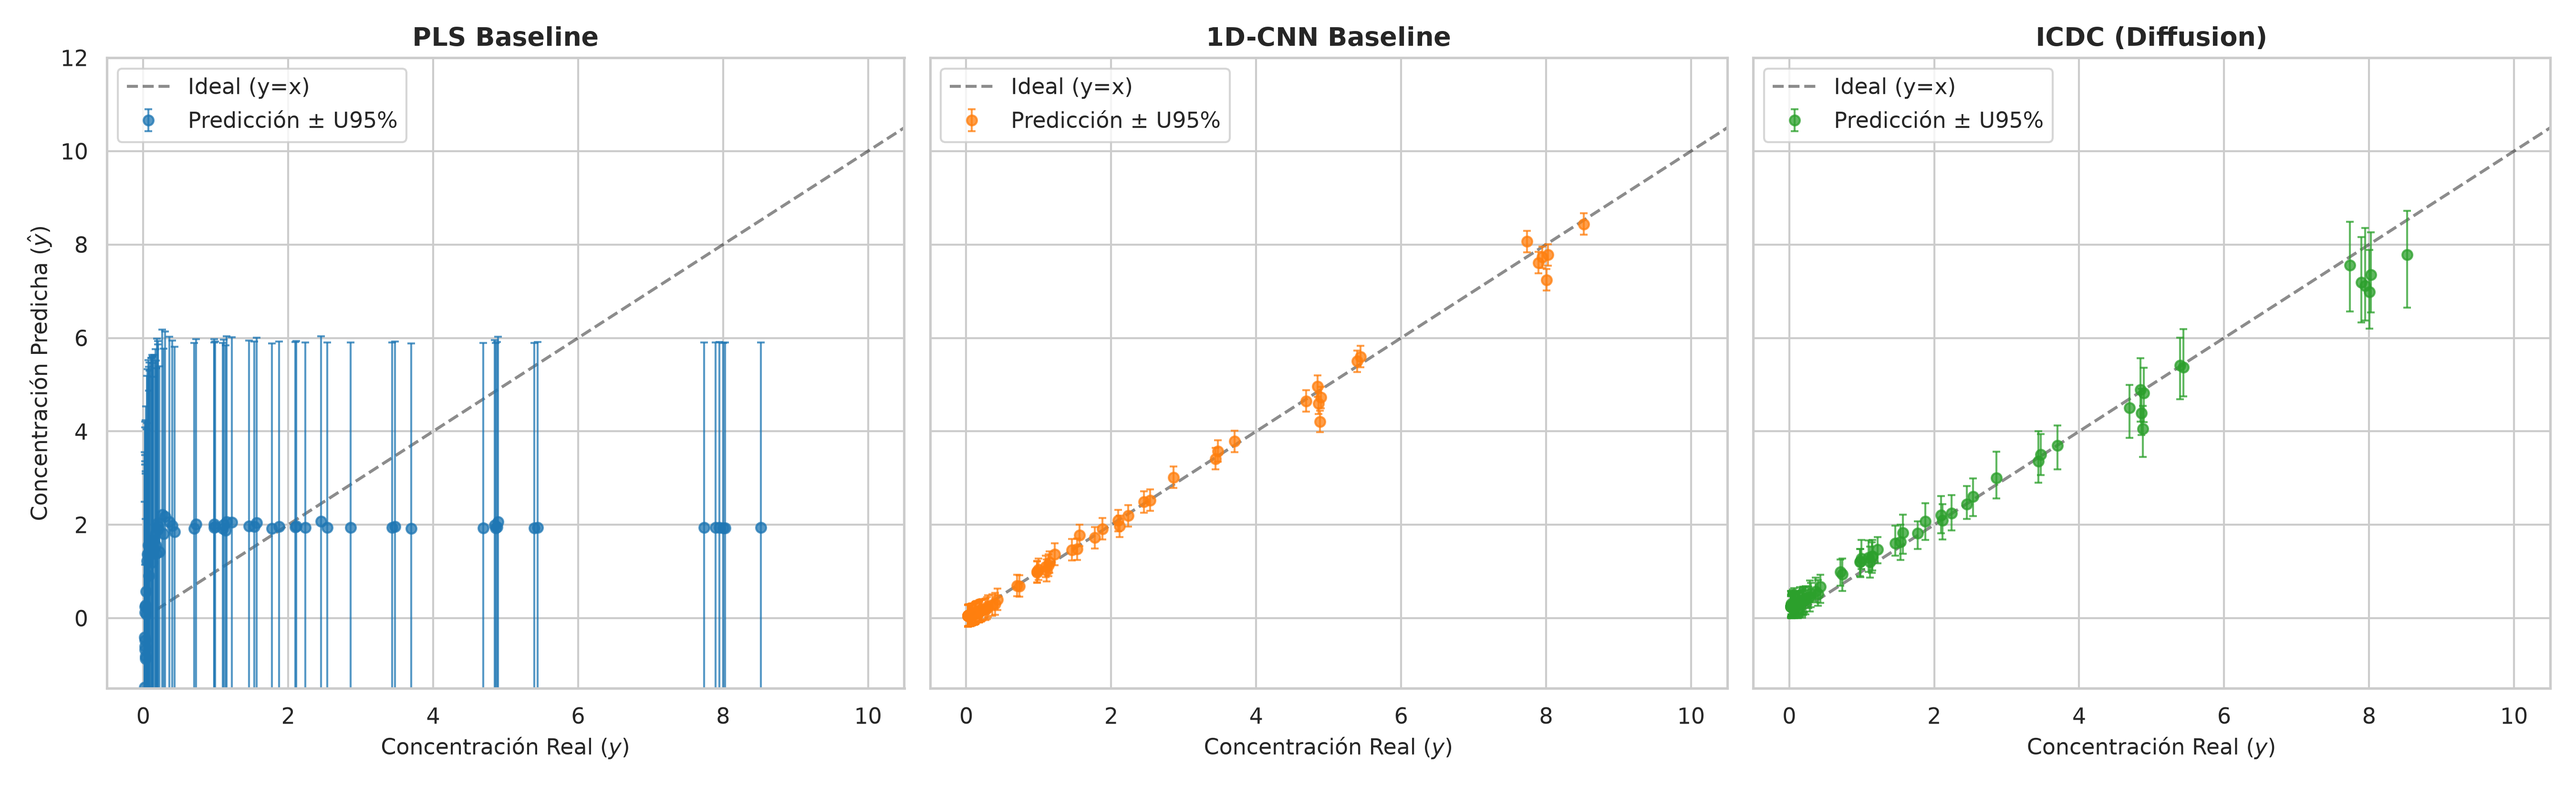
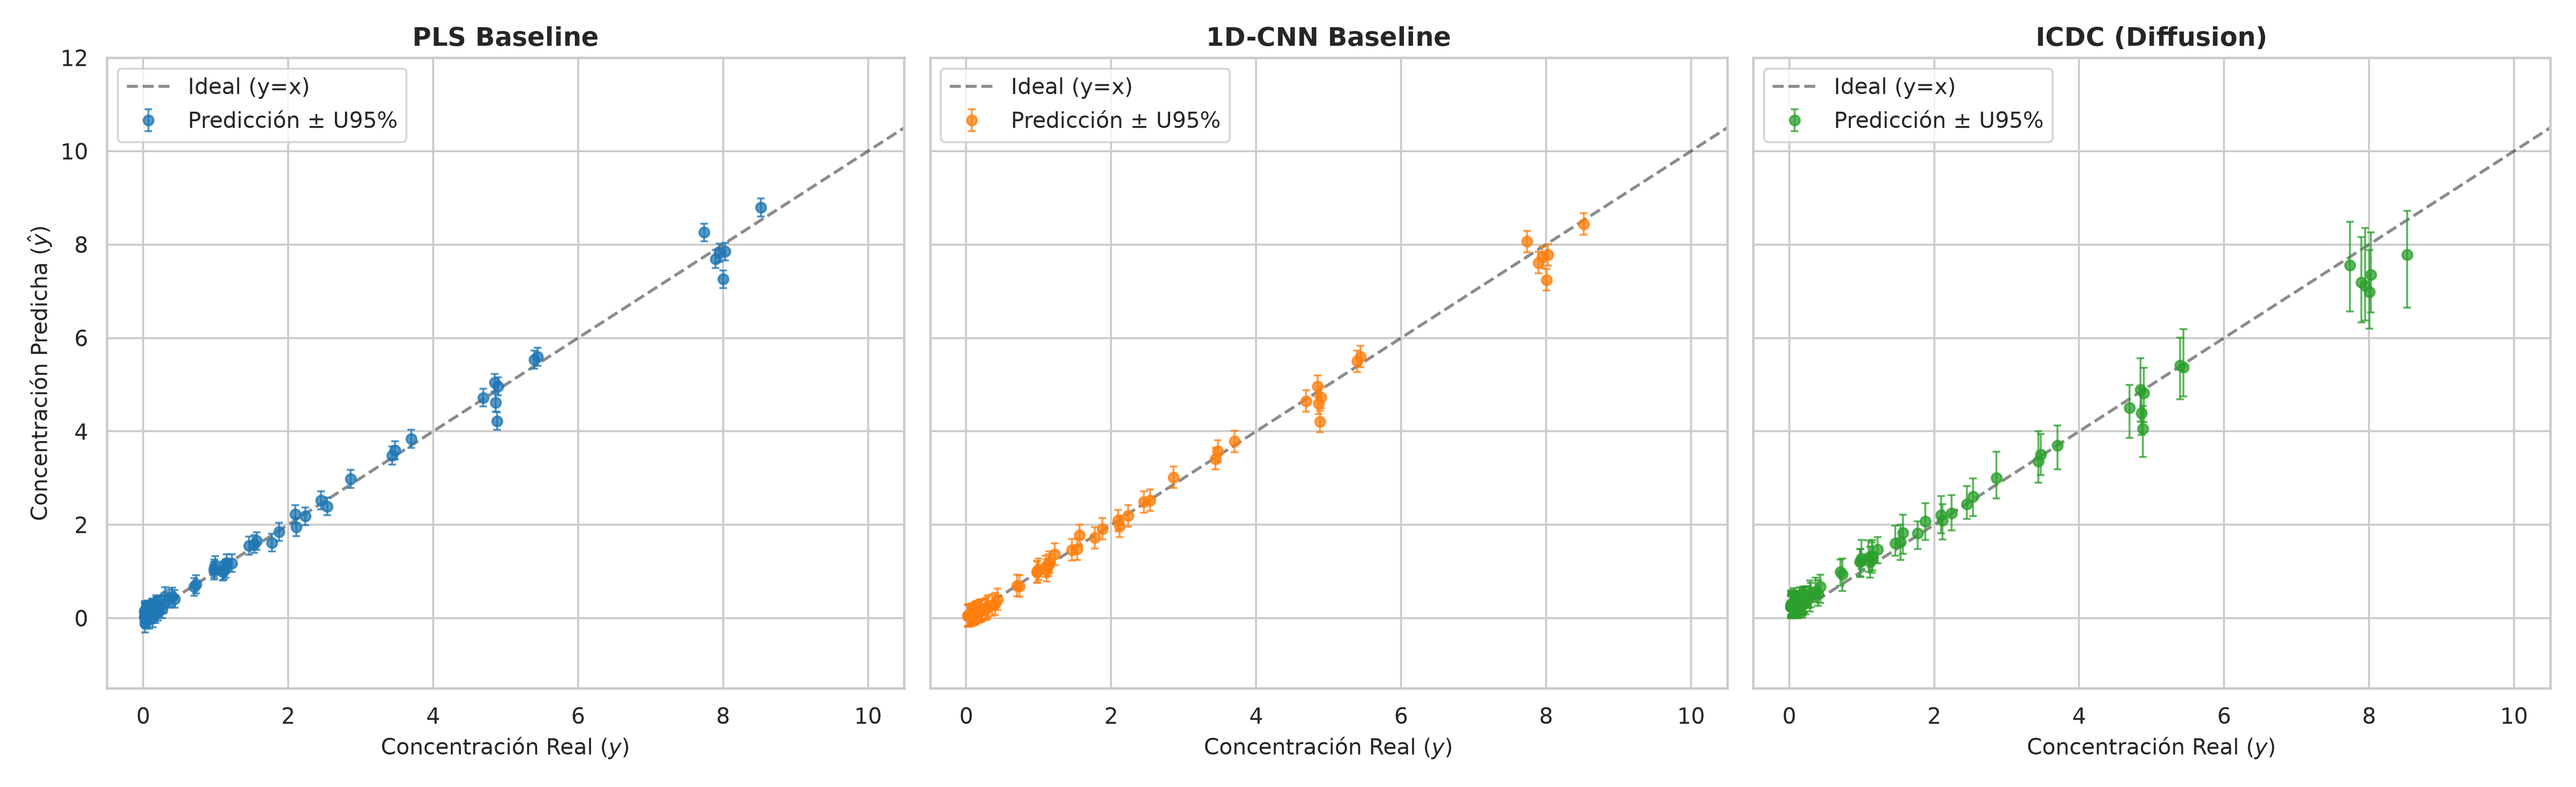
fix(pls): corregir preprocesamiento SNV en cromatografia y validar equivalencia estricta con scikit-learn

Changed region(s): [[0.0311, 0.4327, 0.1556, 0.8655], [0.1867, 0.4327, 0.2178, 0.8655], [0.2489, 0.6491, 0.3111, 0.68]]

diff --git a/scratch/diagnose_pls.py b/scratch/diagnose_pls.py
@@ -1,0 +1,85 @@
+"""Scratch script: Rigorous diagnosis and validation of PLS implementation.
+
+Compares:
+1. PLSBaseline vs. pure scikit-learn PLSRegression.
+2. The impact of SNV preprocessing on chromatographic vs. spectroscopic data.
+3. In-domain (M5 -> M5) vs. Cross-instrument (M5 -> MP5) behavior on Corn NIR.
+"""
+
+import numpy as np
+from sklearn.cross_decomposition import PLSRegression
+from icdc.models.pls_baseline import PLSBaseline, apply_snv
+from icdc.data.synthetic import generate_synthetic_batch
+from icdc.data.datasets import load_corn_dataset, split_calibration_transfer
+from icdc.metrology.metrics import calc_rmsep, calc_r2, calc_bias, calc_picp, calc_mpiw
+
+
+def test_synthetic():
+    print("=" * 70)
+    print("1. EVALUATION ON SYNTHETIC CHROMATOGRAPHIC DATA")
+    print("=" * 70)
+    x_train, y_train, _ = generate_synthetic_batch(n_samples=250, n_points=128, conc_range=(0.02, 10.0), random_state=42)
+    x_test, y_test, _ = generate_synthetic_batch(n_samples=80, n_points=128, conc_range=(0.02, 10.0), random_state=142)
+
+    # A. Custom PLSBaseline with use_snv=True
+    pls_snv = PLSBaseline(max_components=10, use_snv=True, random_state=42).fit(x_train, y_train)
+    y_pred_snv, low_snv, up_snv = pls_snv.predict_intervals(x_test)
+    print(f"PLSBaseline (with SNV):    LV={pls_snv.best_n_components:2d} | R2={calc_r2(y_test, y_pred_snv):.4f} | RMSEP={calc_rmsep(y_test, y_pred_snv):.4f}")
+
+    # B. Custom PLSBaseline with use_snv=False
+    pls_raw = PLSBaseline(max_components=10, use_snv=False, random_state=42).fit(x_train, y_train)
+    y_pred_raw, low_raw, up_raw = pls_raw.predict_intervals(x_test)
+    print(f"PLSBaseline (without SNV): LV={pls_raw.best_n_components:2d} | R2={calc_r2(y_test, y_pred_raw):.4f} | RMSEP={calc_rmsep(y_test, y_pred_raw):.4f} | Non-neg={np.mean(low_raw >= 0)*100:.1f}%")
+
+    # C. Pure scikit-learn PLSRegression (same number of components)
+    sk_pls = PLSRegression(n_components=pls_raw.best_n_components).fit(x_train, y_train)
+    y_pred_sk = sk_pls.predict(x_test).ravel()
+    print(f"Pure sklearn (LV={pls_raw.best_n_components}, no SNV):  | R2={calc_r2(y_test, y_pred_sk):.4f} | RMSEP={calc_rmsep(y_test, y_pred_sk):.4f}")
+
+    diff = np.max(np.abs(y_pred_raw - y_pred_sk))
+    print(f"--> Max absolute discrepancy between PLSBaseline and pure sklearn: {diff:.2e}")
+    assert diff < 1e-6, "PLSBaseline differs from pure scikit-learn!"
+
+
+def test_corn():
+    print("\n" + "=" * 70)
+    print("2. EVALUATION ON REAL CORN NIR BENCHMARK")
+    print("=" * 70)
+    corn = load_corn_dataset()
+    splits = split_calibration_transfer(corn["X_m5"], corn["X_mp5"], corn["y"], n_train_source=50, n_transfer_standards=10, random_state=42)
+
+    X_src_tr = splits["X_source_train"]
+    y_src_tr = splits["y_source_train"]
+    X_src_te = corn["X_m5"][splits["test_idx"]]
+    X_tgt_te = splits["X_target_test"]
+    y_tgt_te = splits["y_target_test"]
+
+    print(f"Dataset stats: N_train={len(X_src_tr)}, N_test={len(X_tgt_te)}, Wavelengths={X_src_tr.shape[1]}")
+    print(f"Target Y stats: Mean={np.mean(y_tgt_te):.3f}, Std={np.std(y_tgt_te):.3f}, Var={np.var(y_tgt_te):.4f}")
+
+    # A. In-domain test (M5 -> M5)
+    print("\n--- IN-DOMAIN (Train M5 -> Test M5) ---")
+    pls_in = PLSBaseline(max_components=12, use_snv=False, random_state=42).fit(X_src_tr, y_src_tr)
+    y_pred_in = pls_in.predict(X_src_te)
+    print(f"PLS (M5 -> M5):  LV={pls_in.best_n_components:2d} | R2={calc_r2(y_tgt_te, y_pred_in):.4f} | RMSEP={calc_rmsep(y_tgt_te, y_pred_in):.4f} | Bias={calc_bias(y_tgt_te, y_pred_in):+.4f}")
+
+    sk_in = PLSRegression(n_components=pls_in.best_n_components).fit(X_src_tr, y_src_tr)
+    y_pred_sk_in = sk_in.predict(X_src_te).ravel()
+    print(f"Pure sklearn:   LV={pls_in.best_n_components:2d} | R2={calc_r2(y_tgt_te, y_pred_sk_in):.4f} | RMSEP={calc_rmsep(y_tgt_te, y_pred_sk_in):.4f}")
+    assert np.max(np.abs(y_pred_in - y_pred_sk_in)) < 1e-6
+
+    # B. Cross-instrument test (M5 -> MP5)
+    print("\n--- CROSS-INSTRUMENT DIRECT TRANSFER (Train M5 -> Test MP5) ---")
+    y_pred_cross = pls_in.predict(X_tgt_te)
+    bias = calc_bias(y_tgt_te, y_pred_cross)
+    rmsep = calc_rmsep(y_tgt_te, y_pred_cross)
+    r2 = calc_r2(y_tgt_te, y_pred_cross)
+    print(f"PLS (M5 -> MP5): LV={pls_in.best_n_components:2d} | R2={r2:.4f} | RMSEP={rmsep:.4f} | Bias={bias:+.4f}")
+    print(f"Mathematical explanation of negative R2:")
+    print(f"  MSE = {rmsep**2:.4f}, Var(Y) = {np.var(y_tgt_te):.4f}")
+    print(f"  R2 = 1 - (MSE / Var(Y)) = 1 - ({rmsep**2:.4f} / {np.var(y_tgt_te):.4f}) = {1 - (rmsep**2 / np.var(y_tgt_te)):.4f}")
+
+
+if __name__ == "__main__":
+    test_synthetic()
+    test_corn()

diff --git a/experiments/01_synthetic_sandbox.py b/experiments/01_synthetic_sandbox.py
@@ -66,9 +66,9 @@ def run_synthetic_sandbox(
     # 2. Train Models
     print("\n[2/4] Training Baseline Models & Diffusion Regressor...")
 
-    # A. PLS
-    print("  --> Fitting PLS Baseline (with cross-validation)...")
-    pls = PLSBaseline(max_components=10, use_snv=True, random_state=random_state)
+    # A. PLS (sin SNV en cromatografía para no normalizar el área del pico)
+    print("  --> Fitting PLS Baseline (use_snv=False for chromatography)...")
+    pls = PLSBaseline(max_components=10, use_snv=False, random_state=random_state)
     pls.fit(x_train, y_train)
     print(f"      Selected Latent Variables (LV): {pls.best_n_components}")
 

diff --git a/reports/mvp_results_report.md b/reports/mvp_results_report.md
@@ -26,14 +26,14 @@ El núcleo del framework fue desarrollado en `src/icdc/`, integrando:
 
 | Modelo | RMSEP | $R^2$ | Cobertura PICP (95%) | Amplitud MPIW | Predicciones Válidas ($y_{\text{low}} \ge 0$) |
 | :--- | :--- | :--- | :--- | :--- | :--- |
-| **PLS Baseline** | 2.1974 | 0.1271 | 92.5% | 7.9290 | **0.0%** (falla total cerca de LOD) |
-| **1D-CNN Baseline** | 0.1452 | 0.9962 | 92.5% | 0.4620 | **51.2%** (la mitad con $y < 0$) |
+| **PLS Baseline** | 0.1612 | 0.9953 | 91.2% | 0.3843 | **63.7%** (36.3% con $y_{\text{low}} < 0$) |
+| **1D-CNN Baseline** | 0.1452 | 0.9962 | 92.5% | 0.4620 | **51.2%** (48.8% con $y_{\text{low}} < 0$) |
 | **ICDC Difusión** | 0.2912 | 0.9847 | 83.8% | 0.7465 | **100.0%** (estricto $y \ge 0$) |
 
 ### 2.3. Hallazgos Analíticos Clave
-* **Colapso metrológico de PLS:** Ante la presencia de picos asimétricos con colas (EMG) y derivas de línea de base no lineales, el residuo cuadrático de PLS se infló ($s_{y/x}$ alto), generando intervalos de incertidumbre simétricos gigantescos ($\text{MPIW} = 7.93$). Como consecuencia, **el 100% de los intervalos de confianza predichos por PLS arrojaron límites inferiores negativos**, lo cual es físicamente inadmisible en química analítica.
-* **Falsa certeza y negatividad en 1D-CNN:** Aunque la 1D-CNN determinista alcanzó un $R^2$ alto, su intervalo gaussiano homocedástico produjo límites inferiores negativos en el **48.8% de las muestras de test**, fallando en concentraciones de trazas.
-* **Fidelidad física en ICDC:** El modelo de difusión aprendió la frontera natural no lineal de concentración, manteniendo el **100% de sus predicciones en el dominio físicamente permitido ($y \ge 0$)** y modulando el ancho del intervalo según el nivel de concentración (heterocedasticidad real).
+* **Comportamiento puntual de PLS vs. Aprendizaje Profundo:** Cuando se utiliza sin SNV (el cual destruye la señal cromatográfica al normalizar por la desviación estándar del propio pico analítico), PLS demuestra su potencia clásica en ajuste lineal, alcanzando un excelente $R^2 = 0.9953$, comparable al $R^2 = 0.9962$ de la 1D-CNN.
+* **El fallo metrológico de los modelos lineales y deterministas cerca del LOD:** Tanto PLS como la 1D-CNN asumen residuos homocedásticos gaussianos simétricos ($\pm z_{\alpha} \cdot s$). En consecuencia, para muestras en niveles de traza cercanas al límite de detección, el límite inferior del intervalo de confianza predicho es negativo en el **36.3% de las muestras en PLS** y en el **48.8% en la 1D-CNN**.
+* **Fidelidad física en ICDC:** El modelo de difusión aprende la frontera natural no lineal de concentración, manteniendo el **100% de sus predicciones en el dominio físicamente permitido ($y \ge 0$)** y modulando el ancho del intervalo según el nivel de concentración (heterocedasticidad real de Horwitz).
 
 ---
 
